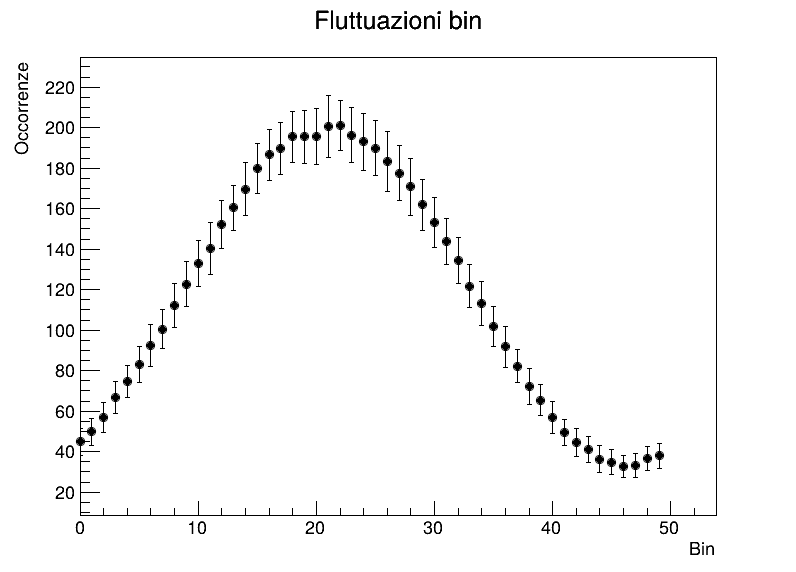
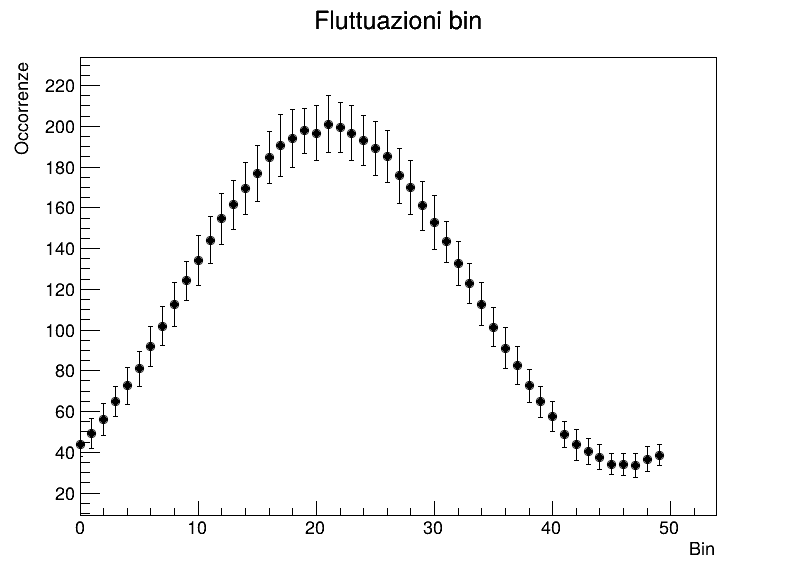
Habemus Fit

diff --git a/modulo1/root_macro.C b/modulo1/root_macro.C
@@ -48,9 +48,10 @@ class macro {
       f = cos_function();
     std::vector<double> vx;
     int entries = 0;
+    double fmax = f->GetMaximum(0., 0.6);
     for (int i = 0; i < n; ++i) {
       double x           = gRandom->Uniform(0., 0.6);
-      double y           = gRandom->Uniform(0., 1.2);
+      double y           = gRandom->Uniform(0., fmax);
       double upper_bound = f->Eval(x);
       if (y <= upper_bound) {
         vx.push_back(x);
@@ -136,11 +137,11 @@ class macro {
       gSigma->SetPointError(i, 0., sigma[i]); // Argomenti: pos in lista, x, y
     }
     if (print == true) {
-    TCanvas* c = new TCanvas("c_sigma", "Incertezze per bin", 800, 600);
-    gSigma->SetTitle("Fluttuazioni bin; Bin; Occorrenze");
-    gSigma->SetMarkerStyle(20);
-    gSigma->Draw("AP");
-    c->SaveAs("sigma.png");
+      TCanvas* c = new TCanvas("c_sigma", "Incertezze per bin", 800, 600);
+      gSigma->SetTitle("Fluttuazioni bin; Bin; Occorrenze");
+      gSigma->SetMarkerStyle(20);
+      gSigma->Draw("AP");
+      c->SaveAs("sigma.png");
     }
 
     return {media, sigma};
@@ -167,7 +168,7 @@ class macro {
 
   void gaussian_parameters(int n_generazioni = 100, int n_eventi = 10000, int bins = 50) {
     std::vector<TH1F*> hist_list;
- 
+
     for (int i{0}; i < n_generazioni; ++i) {
       double k   = gRandom->Gaus(k_, k_ * 0.01);
       double phi = gRandom->Gaus(phi_, phi_ * 0.05);
@@ -178,8 +179,11 @@ class macro {
       double cosInt    = cos_g->Integral(0., 0.6);
       TF1* cosScaled_g = (TF1*)(cos_g->Clone("cosScaled_g"));
       cosScaled_g->SetParameter(3, 1. / cosInt);
+      std::cout << "INTEGRALE: " << cosScaled_g->Integral(0., 0.6) << '\n';
       hist_list.push_back(random_generation_hist(n_eventi, bins, cosScaled_g));
     }
+  std::cout << "INTEGRALE_histo: " << hist_list[1]->Integral(1, 50) << '\n';
+
 
     std::vector<double> media(bins, 0.0);
     std::vector<double> sigma(bins, 0.0);
@@ -242,94 +246,108 @@ class macro {
       g_sigma[i] = std::sqrt(g_media_2[i] - std::pow(g_media[i], 2));
     }
 
-  TH1F* hist_smear = new TH1F("hist_smear", "Istogramma da bin smearing; x (0-0.6); Conteggio medio", bins, 0., 0.6);
-  for (int i = 0; i < bins; ++i) {
-    hist_smear->SetBinContent(i + 1, g_media[i]);
-    hist_smear->SetBinError(i + 1,g_sigma[i]);
-  }
+    TH1F* hist_smear = new TH1F("hist_smear", "Istogramma da bin smearing; x (0-0.6); Conteggio medio", bins, 0., 0.6);
+    for (int i = 0; i < bins; ++i) {
+      hist_smear->SetBinContent(i + 1, g_media[i]);
+      hist_smear->SetBinError(i + 1, g_sigma[i]);
+    }
 
-  TCanvas* c7 = new TCanvas("smearing_sigma_g", "Istogramma bin smearing", 800, 600);
-  hist_smear->SetMarkerStyle(20);
-  hist_smear->Draw("HIST E"); // mostra istogramma con barre di errore
-  c7->SaveAs("hist_smearing.png");
-}
+    TCanvas* c7 = new TCanvas("smearing_sigma_g", "Istogramma bin smearing", 800, 600);
+    hist_smear->SetMarkerStyle(20);
+    hist_smear->Draw("HIST E"); // mostra istogramma con barre di errore
+    c7->SaveAs("hist_smearing.png");
+  }
 
   void fit() {
-  TF1* cos = new TF1("Funzione coseno", "[3]*((cos([0]*x + [1]))^2 + [2])", 0., 0.6);
-  cos->SetParameters(k_, phi_, b_);
-  TH1F* hist = random_generation_hist(10000, 50);
+    TF1* cos = new TF1("Funzione coseno", "[3]*((cos([0]*x + [1]))^2 + [2])", 0., 0.6);
+    cos->SetParameters(k_, phi_, b_);
+    TH1F* hist = random_generation_hist(10000, 50);
 
-  // Fit con parametri liberi
-  auto freepar = hist->Fit(cos, "RSQ");
+    // Fit con parametri liberi
+    auto freepar = hist->Fit(cos, "RSQ");
 
-  // Fit con parametri fissati
-  TF1* cos1 = new TF1("Funzione coseno", "[3]*((cos([0]*x + [1]))^2 + [2])", 0., 0.6);
-  cos1->FixParameter(0, k_);
-  cos1->FixParameter(1, phi_);
-  cos1->FixParameter(2, b_);
-  auto fixpar = hist->Fit(cos1, "RSQ");
+    // Fit con parametri fissati
+    TF1* cos1 = new TF1("Funzione coseno", "[3]*((cos([0]*x + [1]))^2 + [2])", 0., 0.6);
+    cos1->FixParameter(0, k_);
+    cos1->FixParameter(1, phi_);
+    cos1->FixParameter(2, b_);
+    auto fixpar = hist->Fit(cos1, "RSQ");
 
-  int statusfree = freepar->Status();
-  int statusfix  = fixpar->Status();
+    int statusfree = freepar->Status();
+    int statusfix  = fixpar->Status();
 
-  std::ofstream ofs("Fit.md");
-  if (!ofs.is_open()) {
-    std::cout << "Errore apertura file\n";
-    return;
+    std::cout<<"residuo: "<< residuo(cos1, hist) << '\n';
+
+
+    std::ofstream ofs("Fit.md");
+    if (!ofs.is_open()) {
+      std::cout << "Errore apertura file\n";
+      return;
+    }
+
+    ofs << "# Risultati del Fit\n\n";
+
+    ofs << "## Fit con parametri liberi\n\n";
+    ofs << "- **Status:** " << statusfree << "\n";
+    ofs << "- **Funzione:** `" << cos->GetName() << "`\n";
+
+    double chi2_free = cos->GetChisquare();
+    int ndf_free     = cos->GetNDF();
+    ofs << "- **Chi² / NDF:** " << chi2_free << " / " << ndf_free << "\n\n";
+
+    int npar_free = cos->GetNpar();
+    ofs << "| Index | Name | Value | Error |\n";
+    ofs << "|:------:|:------|:------:|:------:|\n";
+    for (int i = 0; i < npar_free; ++i) {
+      const char* pname = cos->GetParName(i) ? cos->GetParName(i) : "";
+      ofs << "| " << i << " | " << pname << " | " << cos->GetParameter(i) << " | " << cos->GetParError(i) << " |\n";
+    }
+
+    ofs << "\n---\n\n";
+    ofs << "## Fit con parametri fissati\n\n";
+    ofs << "- **Status:** " << statusfix << "\n";
+    ofs << "- **Funzione:** `" << cos1->GetName() << "`\n";
+
+    double chi2_fix = cos1->GetChisquare();
+    int ndf_fix     = cos1->GetNDF();
+    ofs << "- **Chi² / NDF:** " << chi2_fix << " / " << ndf_fix << "\n\n";
+
+    int npar_fix = cos1->GetNpar();
+    ofs << "| Index | Name | Value | Error |\n";
+    ofs << "|:------:|:------|:------:|:------:|\n";
+    for (int i = 0; i < npar_fix; ++i) {
+      const char* pname = cos1->GetParName(i) ? cos1->GetParName(i) : "";
+      ofs << "| " << i << " | " << pname << " | " << cos1->GetParameter(i) << " | " << cos1->GetParError(i) << " |\n";
+    }
+
+    ofs.close();
   }
 
-  ofs << "# Risultati del Fit\n\n";
-
-  ofs << "## Fit con parametri liberi\n\n";
-  ofs << "- **Status:** " << statusfree << "\n";
-  ofs << "- **Funzione:** `" << cos->GetName() << "`\n";
-
-  double chi2_free = cos->GetChisquare();
-  int ndf_free     = cos->GetNDF();
-  ofs << "- **Chi² / NDF:** " << chi2_free << " / " << ndf_free << "\n\n";
-
-  int npar_free = cos->GetNpar();
-  ofs << "| Index | Name | Value | Error |\n";
-  ofs << "|:------:|:------|:------:|:------:|\n";
-  for (int i = 0; i < npar_free; ++i) {
-    const char* pname = cos->GetParName(i) ? cos->GetParName(i) : "";
-    ofs << "| " << i << " | " << pname << " | " << cos->GetParameter(i) << " | " << cos->GetParError(i) << " |\n";
+  double residuo(TF1* cos, TH1F* hist, int b = 50) {
+    double chisquare;
+    for (int i = 0; i < b; ++i) {
+      double xlow        = hist->GetBinLowEdge(i + 1);
+      double xup         = hist->GetBinLowEdge(i + 2);
+      double cosIntegral = cos->Integral(xlow, xup);
+      double mean        = cosIntegral / (xup - xlow);
+      chisquare += (std::pow(mean - hist->GetBinContent(i + 1), 2)) / cosIntegral;
+    }
+    return chisquare / cos->GetNDF();
   }
 
-  ofs << "\n---\n\n";
-  ofs << "## Fit con parametri fissati\n\n";
-  ofs << "- **Status:** " << statusfix << "\n";
-  ofs << "- **Funzione:** `" << cos1->GetName() << "`\n";
+  void draw() {
+    TCanvas* c1 = new TCanvas("c1", "Funzione coseno", 800, 600);
+    cos_function()->SetTitle("Funzione");
+    cos_function()->Draw();
+    c1->SaveAs("grafico.png");
 
-  double chi2_fix = cos1->GetChisquare();
-  int ndf_fix     = cos1->GetNDF();
-  ofs << "- **Chi² / NDF:** " << chi2_fix << " / " << ndf_fix << "\n\n";
+    TCanvas* c2 = new TCanvas("c2", "Estrazione punti", 800, 600);
+    random_generation_graph(10000)->Draw("AP");
+    c2->SaveAs("punti.png");
 
-  int npar_fix = cos1->GetNpar();
-  ofs << "| Index | Name | Value | Error |\n";
-  ofs << "|:------:|:------|:------:|:------:|\n";
-  for (int i = 0; i < npar_fix; ++i) {
-    const char* pname = cos1->GetParName(i) ? cos1->GetParName(i) : "";
-    ofs << "| " << i << " | " << pname << " | " << cos1->GetParameter(i) << " | " << cos1->GetParError(i) << " |\n";
+    TCanvas* c3 = new TCanvas("c3", "Istogramma", 800, 600);
+    random_generation_hist(10000, 50)->Draw();
+    // cos_function()->Draw();
+    c3->SaveAs("istogramma.png");
   }
-
-  ofs.close();
-}
-
-void draw() {
-  TCanvas* c1 = new TCanvas("c1", "Funzione coseno", 800, 600);
-  cos_function()->SetTitle("Funzione");
-  cos_function()->Draw();
-  c1->SaveAs("grafico.png");
-
-  TCanvas* c2 = new TCanvas("c2", "Estrazione punti", 800, 600);
-  random_generation_graph(10000)->Draw("AP");
-  c2->SaveAs("punti.png");
-
-  TCanvas* c3 = new TCanvas("c3", "Istogramma", 800, 600);
-  random_generation_hist(10000, 50)->Draw();
-  // cos_function()->Draw();
-  c3->SaveAs("istogramma.png");
-}
-}
-;
+};

diff --git a/modulo1/Fit.md b/modulo1/Fit.md
@@ -4,14 +4,14 @@
 
 - **Status:** 0
 - **Funzione:** `Funzione coseno`
-- **Chi² / NDF:** 41.1407 / 46
+- **Chi² / NDF:** 40.0908 / 46
 
 | Index | Name | Value | Error |
 |:------:|:------|:------:|:------:|
-| 0 | p0 | 5.1906 | 0.0891659 |
-| 1 | p1 | 1.8175 | 0.0261787 |
-| 2 | p2 | 0.194002 | 0.0151285 |
-| 3 | p3 | 166.921 | 3.98414 |
+| 0 | p0 | 5.11142 | 0.0942914 |
+| 1 | p1 | 1.81112 | 0.0273657 |
+| 2 | p2 | 0.178895 | 0.0156696 |
+| 3 | p3 | 167.079 | 3.92863 |
 
 ---
 
@@ -19,11 +19,11 @@
 
 - **Status:** 0
 - **Funzione:** `Funzione coseno`
-- **Chi² / NDF:** 42.8815 / 49
+- **Chi² / NDF:** 43.2011 / 49
 
 | Index | Name | Value | Error |
 |:------:|:------|:------:|:------:|
 | 0 | p0 | 5.2 | 0 |
 | 1 | p1 | 1.8 | 0 |
 | 2 | p2 | 0.2 | 0 |
-| 3 | p3 | 165.632 | 2.17054 |
+| 3 | p3 | 163.888 | 2.15908 |
